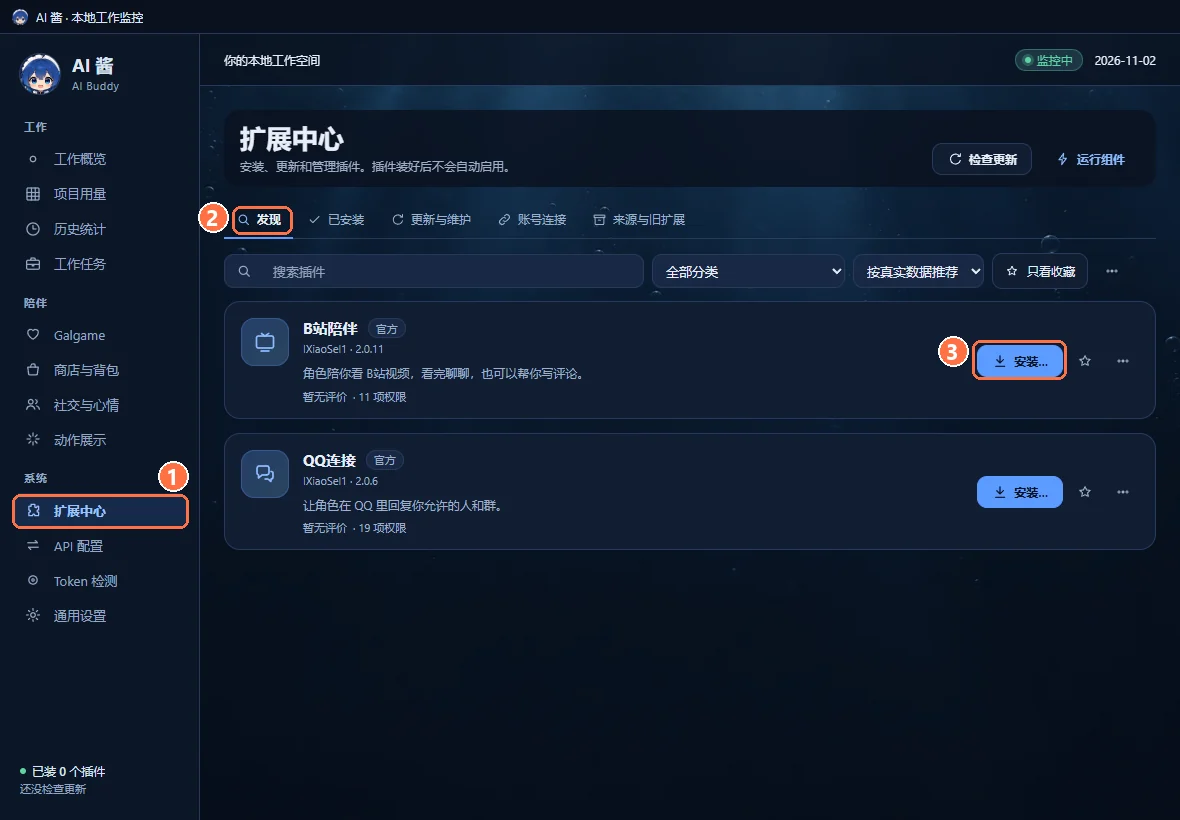
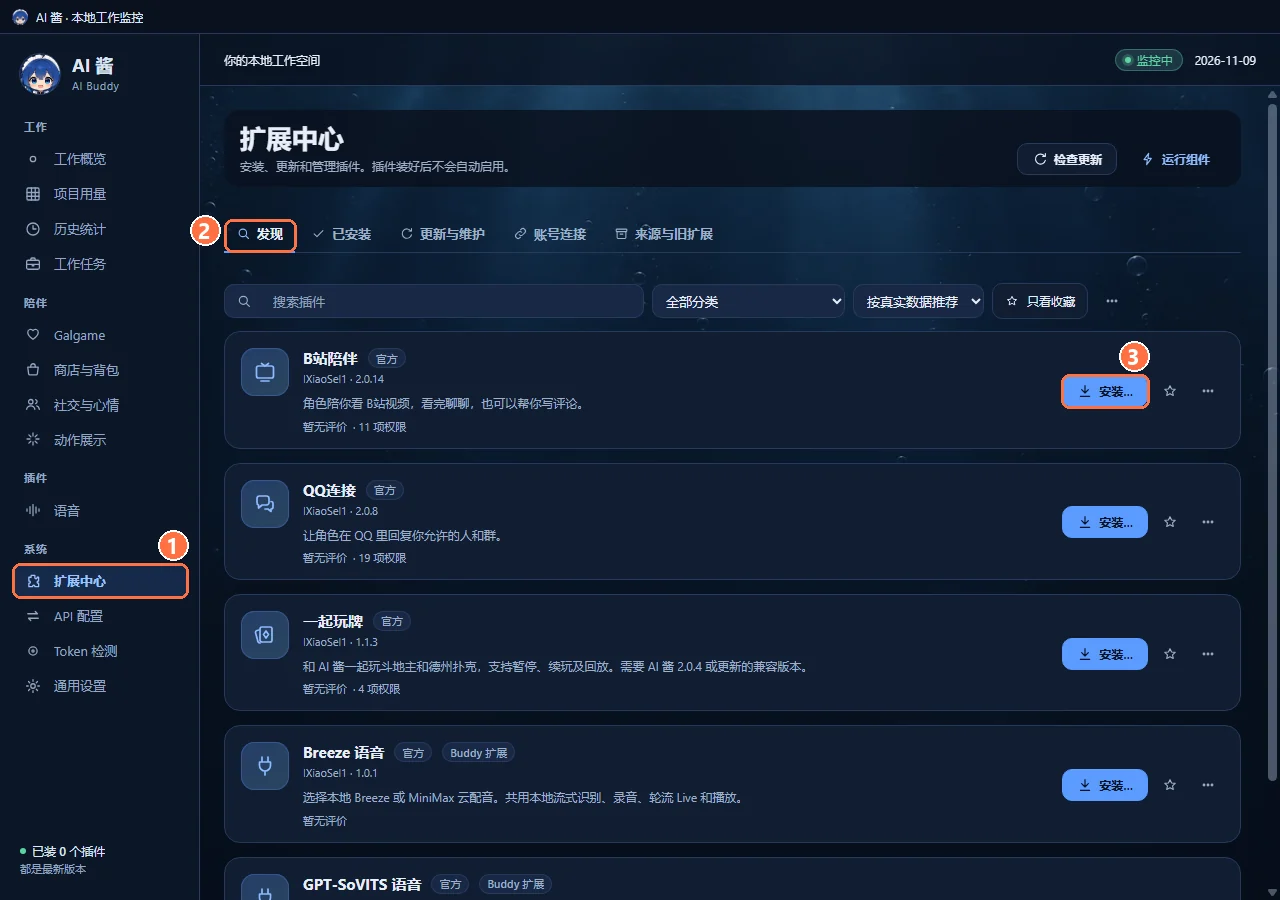
Update README for 2.0.9: voice, plugin versions and in-app updates
Add a Voice section (Breeze and GPT-SoVITS plugins, voice plugin page, voice in
chat, Live, Card Games voice, MiniMax cloud voice and costs), list the current
official plugin versions, describe in-app and plugin updates, hourly saving of
the two large saves, voice data and the 2.0.9 known limits. Point the quickstart
at the v2.0.9 downloads. New screenshots use the 2.0.9 interface with demo data.

diff --git a/README.en.md b/README.en.md
@@ -14,14 +14,14 @@
 
 [简体中文](README.md) · **English**
 
-**AI Buddy app** (this repository) · [Bilibili Companion plugin](https://github.com/lXiaoSel1/AI-Buddy-Bilibili) · [QQ Connect plugin](https://github.com/lXiaoSel1/AI-Buddy-QQ) · [Card Games plugin](https://github.com/lXiaoSel1/AI-Buddy-Card-Games)
+**AI Buddy app** (this repository) · [Bilibili Companion plugin](https://github.com/lXiaoSel1/AI-Buddy-Bilibili) · [QQ Connect plugin](https://github.com/lXiaoSel1/AI-Buddy-QQ) · [Card Games plugin](https://github.com/lXiaoSel1/AI-Buddy-Card-Games) · [Voice plugins](https://github.com/lXiaoSel1/AI-Buddy-Voice)
 
 <!-- ai-buddy-source-version: 2.0.9 -->
-**Current release: [v2.0.9](https://github.com/lXiaoSel1/ai-buddy/releases/tag/v2.0.9)** · 2.0 added the Extensions center with official plugins, points with a shop, backpack and feeding, and Social & mood; group chat can now run in Auto, with the characters taking turns on their own. 2.0.4 added the table service, so you can install Card Games from Extensions and play Dou Dizhu and Texas Hold'em with your characters. 2.0.5 fixes that page sticking on "Starting" when you switch from the Bilibili or QQ page. 2.0.6 fixes an installer freeze while verifying old profiles. 2.0.7 fixes Bilibili Companion storyboard acquisition on affected CDN routes. The 30fps and 60fps editions have the same features. 2.0.8 connects application and plugin updates in Settings. See the [2.0.9 release notes](docs/RELEASE-2.0.9.en.md).
+**Current release: [v2.0.9](https://github.com/lXiaoSel1/ai-buddy/releases/tag/v2.0.9)** · 2.0 added the Extensions center with official plugins, points with a shop, backpack and feeding, and Social & mood; group chat can now run in Auto, with the characters taking turns on their own. 2.0.4 added the table service, so you can install Card Games from Extensions and play Dou Dizhu and Texas Hold'em with your characters. 2.0.5 fixes that page sticking on "Starting" when you switch from the Bilibili or QQ page. 2.0.6 fixes an installer freeze while verifying old profiles. 2.0.7 fixes Bilibili Companion storyboard acquisition on affected CDN routes. 2.0.8 lets you update the app and plugins from Settings. 2.0.9 adds [voice](#voice): install the Breeze or GPT-SoVITS voice plugin from Extensions and her replies are read aloud; in Galgame you can take turns talking with her in Live or record speech into text; MiniMax cloud voice is also available. The 30fps and 60fps editions have the same features. See the [2.0.9 release notes](docs/RELEASE-2.0.9.en.md).
 
 ## Online installer (recommended)
 
-**Application version 2.0.9.** This version supports Card Games 1.0.0 from Extensions.
+**Application version 2.0.9.** Extensions currently offers Bilibili Companion 2.0.14, QQ Connect 2.0.8, Card Games 1.1.3, and the Breeze and GPT-SoVITS voice plugins 1.0.1.
 
 [Download the Windows x64 installer 2.0.9](https://github.com/lXiaoSel1/AI-Buddy/releases/download/v2.0.9/AI-Buddy-Setup-2.0.9-win-x64.exe) → choose 30fps / 60fps and characters → it downloads, verifies and installs. The same installer adds characters, repairs files and upgrades.
 
@@ -46,7 +46,8 @@ AI Buddy (AI 酱) is a Windows desktop app. It only reads your local AI-tool log
 - **Social & mood**: characters have a mood that changes with real interaction. Proactive chat, talking to herself and group Auto are all off by default; turn them on if you want them. When you are busy, you can ask her not to disturb you.
 - **More work, closer bonds**: while AI Buddy runs, new work tokens slowly turn into affection for the current character, and a level-up can produce a commemorative CG.
 - **A transparent desktop pet for each of the 11 characters**: 24 actions each, at 30fps or 60fps. Pat her and she makes a face, she falls asleep after 5 quiet minutes, left-drag walks her along and right-drag throws her. She jumps when a task finishes and reacts when one fails.
-- **Extensions and official plugins**: install [Bilibili Companion](https://github.com/lXiaoSel1/AI-Buddy-Bilibili) (watch Bilibili videos with a character) or [QQ Connect](https://github.com/lXiaoSel1/AI-Buddy-QQ) (let a character answer the QQ friends and groups you allow) or [Card Games](https://github.com/lXiaoSel1/AI-Buddy-Card-Games) (play Dou Dizhu and Texas Hold'em with your characters) from the Extensions center. Installed plugins are not enabled automatically, and they never sign in, post or call a model on their own.
+- **Extensions and official plugins**: install [Bilibili Companion](https://github.com/lXiaoSel1/AI-Buddy-Bilibili) (watch Bilibili videos with a character), [QQ Connect](https://github.com/lXiaoSel1/AI-Buddy-QQ) (let a character answer the QQ friends and groups you allow), [Card Games](https://github.com/lXiaoSel1/AI-Buddy-Card-Games) (play Dou Dizhu and Texas Hold'em with your characters) or the [voice plugins](https://github.com/lXiaoSel1/AI-Buddy-Voice) from the Extensions center. Installed plugins are not enabled automatically, and they never sign in, post or call a model on their own.
+- **Voice**: with the Breeze or GPT-SoVITS voice plugin, her replies are read aloud in her own voice, with the text following the playback. In Galgame you can take turns talking with her in Live, or record a few sentences into text and edit them before sending. Each character can use a recording you provide, and MiniMax cloud voice is there when you would rather not use your GPU.
 - **11 character themes, Chinese and English**: colors, backgrounds and ornaments come from each portrait, 5 dark and 6 light. Keep one fixed or let it follow the current character.
 
 ## Quick start
@@ -57,7 +58,7 @@ Five steps get you from the installer to your first chat. The orange numbers in 
 
 <img src="docs/images/en-step-1-installer.webp" width="420" alt="Installer: installation folder, animation edition and initial character, character resources and the Install / Add / Repair button">
 
-**2. Open the app directly.** The r1 installer initializes a fresh local profile automatically and preserves the existing profile during an in-place update. The welcome screen below applies only to a first portable launch. Use the app's import entry when bringing in a different save.
+**2. Open the app directly.** The installer initializes a fresh local profile automatically and preserves the existing profile during an in-place update. The welcome screen below applies only to a first portable launch. Use the app's import entry when bringing in a different save.
 
 <img src="docs/images/step-2-welcome-new-save.webp" width="620" alt="Welcome page (Chinese interface): Create a new save, Import an old save, and the Create a new save and start button">
 
@@ -69,9 +70,9 @@ Five steps get you from the installer to your first chat. The orange numbers in 
 
 ![The "online chat is off" notice in the Galgame dialogue box and the Enable online chat button (Chinese interface)](docs/images/step-4-turn-on-online-chat.webp)
 
-**5. (Optional) Install a plugin.** In the sidebar open ① **Extensions** → ② **Discover**, click ③ **Install…** next to Bilibili Companion, QQ Connect or Card Games, and tick the permissions you want to grant. AI Buddy prepares the components a plugin needs during installation or when you connect; you do not install Node or enter ports. To connect your Bilibili or QQ account afterwards, see each plugin's guide: [Bilibili Companion](https://github.com/lXiaoSel1/AI-Buddy-Bilibili#english) · [QQ Connect](https://github.com/lXiaoSel1/AI-Buddy-QQ#english).
+**5. (Optional) Install a plugin.** In the sidebar open ① **Extensions** → ② **Discover**, click ③ **Install…** next to the plugin you want, and tick the permissions you want to grant. AI Buddy prepares the components a plugin needs during installation, when you connect or when you start it; you do not install Node or enter ports. How to use each plugin afterwards: [Bilibili Companion](https://github.com/lXiaoSel1/AI-Buddy-Bilibili#english) · [QQ Connect](https://github.com/lXiaoSel1/AI-Buddy-QQ#english) · [Card Games](https://github.com/lXiaoSel1/AI-Buddy-Card-Games#english) · [Voice](#voice).
 
-<img src="docs/images/step-5-extension-center.webp" width="620" alt="Extensions center, Discover tab (Chinese interface): the official Bilibili Companion 2.0.11 and QQ Connect 2.0.6 plugins with their Install buttons">
+<img src="docs/images/step-5-extension-center.webp" width="620" alt="Extensions center, Discover tab (Chinese interface): official plugins including Bilibili Companion, QQ Connect, Card Games, Breeze Voice and GPT-SoVITS Voice, with their Install buttons (demo data)">
 
 ## What it does
 
@@ -291,6 +292,8 @@ Folder layout after installation:
 ### Update and remove
 
 - Add characters, repair files or switch frame rate: click **Manage character resources** in General settings to open the maintenance tool, or run the same-version installer again. Characters that are not installed show as "Not installed" and open the installer only after you confirm; nothing downloads automatically.
+- In-app updates (since 2.0.8): in General settings, **Version and updates** checks, downloads and prepares a new version; then choose Later or Install and restart. You can keep using the app while it prepares, and it waits for running activity to finish before switching. A very old version without migration support needs one installer run first.
+- Plugin updates: use **Extensions → Updates and maintenance**. Updates are manual by default; you can turn on automatic compatible patches per plugin. An update keeps the plugin's enabled state and data, and new permissions still need your OK. After upgrading from 2.0.8 to 2.0.9, update the voice plugins there from 1.0.0 to 1.0.1; 1.0.0 only works with 2.0.8.
 - Upgrade: run the newer installer. It waits for chat and CG to finish, closes AI Buddy normally, and keeps the previous program version and your personal data.
 - Roll back: click **Roll back** in the installer. It restores the program and launch pointer only and never overwrites newer progress with old saves. An older program that does not support newer data refuses to write it and does not convert or delete it.
 - Remove: click **Uninstall…** in the installer. Personal data is kept by default; you can also tick deleting the default personal data (irreversible). A custom data folder is never deleted. The download cache `%LOCALAPPDATA%\AI Buddy\InstallerCache` stays for resuming and repair; delete it manually if you no longer need it.
@@ -457,9 +460,11 @@ The Extensions center (sidebar **System → Extensions**) has Discover, Installe
 
 | Plugin | What it does | Guide and source |
 |---|---|---|
-| Bilibili Companion 2.0.11 | Watch Bilibili videos with a character: review the full reading plan first, and after you confirm she reads the sampled frames and the platform subtitles and writes viewing notes. Viewing can be scheduled. Posting comments needs separate permission | [AI-Buddy-Bilibili](https://github.com/lXiaoSel1/AI-Buddy-Bilibili) |
-| QQ Connect 2.0.6 | Choose a character to take over your QQ account and answer only the friends and groups you allow; in groups she speaks only when @-mentioned or replied to, by default | [AI-Buddy-QQ](https://github.com/lXiaoSel1/AI-Buddy-QQ) |
-| Card Games 1.0.0 | Play Dou Dizhu and Texas Hold'em (2 to 10 players) with your characters. They use their own bound models, points use the app wallet, and every 3 games add 1 affection. Requires the app at 2.0.4 or later | [AI-Buddy-Card-Games](https://github.com/lXiaoSel1/AI-Buddy-Card-Games) |
+| Bilibili Companion 2.0.14 | Watch Bilibili videos with a character: review the full reading plan first, and after you confirm she reads the sampled frames and the platform subtitles and writes viewing notes. Viewing can be scheduled. New viewings use that character's own chat connection. Posting comments needs separate permission | [AI-Buddy-Bilibili](https://github.com/lXiaoSel1/AI-Buddy-Bilibili) |
+| QQ Connect 2.0.8 | Choose a character to take over your QQ account and answer only the friends and groups you allow; in groups she speaks only when @-mentioned or replied to, by default | [AI-Buddy-QQ](https://github.com/lXiaoSel1/AI-Buddy-QQ) |
+| Card Games 1.1.3 | Play Dou Dizhu and Texas Hold'em (2 to 10 players) with your characters. They use their own bound models, points use the app wallet, and every 3 games add 1 affection. Includes music and table sounds, and with voice on they call out their moves. Requires the app at 2.0.4 or later | [AI-Buddy-Card-Games](https://github.com/lXiaoSel1/AI-Buddy-Card-Games) |
+| Breeze Voice 1.0.1 | Local voice whose tone follows her mood; needs an NVIDIA GPU with at least 9.5 GiB free memory at start. Can switch to MiniMax cloud voice. Requires the app at 2.0.9 | [AI-Buddy-Voice](https://github.com/lXiaoSel1/AI-Buddy-Voice) |
+| GPT-SoVITS Voice 1.0.1 | Local voice, mainly in a calm tone; needs an NVIDIA GPU with at least 4 GiB free memory at start. Can switch to MiniMax cloud voice. Requires the app at 2.0.9 | [AI-Buddy-Voice](https://github.com/lXiaoSel1/AI-Buddy-Voice) |
 
 - The video component Bilibili Companion needs (FFmpeg) is prepared by AI Buddy from a pinned upstream release when you install the plugin, with its source, size and progress shown; a copy that has already been verified is not downloaded again.
 - Use app 2.0.7 for Bilibili Companion's complete reading: earlier versions can fail to get the storyboard from the original video on some CDN routes. Failed viewing records stay. After updating, choose **Watch now** for a new attempt, then review the storyboard and confirm the plan. Media-address, connection and range errors appear under **Technical details**.
@@ -467,8 +472,73 @@ The Extensions center (sidebar **System → Extensions**) has Discover, Installe
 - Both plugins connect their accounts by scanning a QR code under **Extensions → Accounts**. Credentials are encrypted by the system on this computer, and a plugin only receives a reference, never the password or cookie itself.
 - Installing, updating or scanning never starts watching, commenting, sending QQ messages or calling a model.
 - Each AI move in Card Games is one model request, sent only when you click "Ask X to play" or turn on AI auto. Rules and settlement live in the app: a model can only propose a move, and an illegal one is never played.
+- Both voice plugins can be installed, but only one runs at a time. An installed voice plugin shows **Start** on the **Installed** tab and **Open** once it is running; turning voice on in Galgame also starts it.
 
 <img src="docs/images/card-games-table.webp" width="720" alt="A ten-seat Card Games Hold'em table: portraits along the top row, round portraits at both ends and the board, with an end-seat character appearing at the lower right on her turn (demo data)">
+
+<img src="docs/images/extension-installed.webp" width="620" alt="Extensions center, Installed tab (Chinese interface): Bilibili Companion, QQ Connect, Card Games and Breeze Voice running, GPT-SoVITS Voice not started with a Start button (demo data)">
+
+## Voice
+
+From 2.0.9, AI Buddy can talk. Voice comes from two plugins in Extensions; install either one:
+
+| | Breeze Voice | GPT-SoVITS Voice |
+|---|---|---|
+| Tone | Follows her mood | Mainly calm |
+| GPU | NVIDIA, at least 9.5 GiB free memory at start | NVIDIA, at least 4 GiB free memory at start |
+| First download (including the shared speech recognition, decimal GB) | about 11.18 GB | about 6.92 GB |
+
+Both plugins share one speech recognizer (CPU only). Both can be installed, but only one local voice engine runs at a time: switching stops the current engine before starting the other. The GPU memory figures are start-up checks, not a promise that every computer can load the model. To keep your GPU free, set "Where voices are made" on the plugin page to **MiniMax cloud**, billed by characters and using your own API key. Components are prepared when first needed: local mode prepares the chosen engine and the shared recognizer, cloud mode prepares only the shared parts and loads no local voice engine, and verified components are reused. Download sizes and component sources are in [AI-Buddy-Voice](https://github.com/lXiaoSel1/AI-Buddy-Voice).
+
+### The voice plugin page
+
+Once installed and enabled, open **Plugins → Voice** in the sidebar. The picture shows local voice with everything ready; missing parts show a setup page first, and MiniMax cloud mode shows cloud voice management:
+
+<img src="docs/images/en-voice-plugin-page.webp" width="720" alt="Voice plugin page: Breeze Voice ready, with character voices, where voices are made (this PC or MiniMax cloud) and parts on this PC (demo data)">
+
+- The tabs at the top switch between the Breeze and GPT-SoVITS pages. Looking does not switch the engine in use.
+- **Character voices**: every character has her own voice. To give her a voice you prepared, switch to her in Galgame first, choose **Use my recording…**, type exactly what is said, then pick a calm WAV recording with only one person speaking. The recording stays on this computer by default and is used only for that character; it is uploaded only if you explicitly agree to cloud cloning. GPT-SoVITS needs a 3–10 second reference (a requirement of the model itself; AI Buddy does not check the length on import).
+- **Where voices are made**: "This PC" uploads nothing and costs nothing but uses your GPU; "MiniMax cloud" needs no GPU and is billed by characters.
+- **Parts on this PC**: whether speech recognition and the voice model are ready. Missing parts show "Needs setup"; while preparing, the download progress is shown and continues if you leave the page.
+
+### In chat
+
+<img src="docs/images/en-voice-chat-speaking.webp" width="720" alt="Galgame private chat: DeepSeek is speaking, the part already read is dimmed, and the voice status at the top right says Speaking (demo data)">
+
+- **Voice** at the right of the top bar shows the state (ready, speaking, Live on). Click it to turn voice on or off and choose the plugin and where voices are made.
+- The microphone left of the input box is **voice input**: when you finish, the recognized text goes into the input box marked as from a recording, so you can edit it first. Nothing is sent automatically.
+- **Live** right of the input box lets you take turns talking with her (below).
+- While the model is still generating, this button is **Stop reply**; once generation ends and she is still reading, it becomes **Stop reading**.
+
+A voiced reply appears in step with the actual playback, and the part already read is dimmed; if voicing fails or times out, the text is shown anyway. Group chat uses the same voice entry, and group Auto waits until the current line's text and audio have finished before the next speaker. Switching between private and group chat stops the line being read but leaves voice switched on.
+
+### Live: take turns talking
+
+After **Live**, you say a line and she answers. The strip shows four stages: you, recognizing, thinking, speaking.
+
+<img src="docs/images/voice-live.webp" width="720" alt="Live in progress (Chinese interface): DeepSeek is speaking, the stage strip is on 'she speaks', with End Live at the right (demo data)">
+
+- ① The current stage. When she finishes, it is your turn again.
+- ② **End Live** ends Live only; it does not send another message.
+
+Live needs a working microphone that Windows allows AI Buddy to use. After you click Live, the needed parts are prepared before the microphone opens, and you can type meanwhile; while the voice model is still loading, the Live button is disabled. If voicing fails or a reply cannot start, Live may end and you need to start it again; replies already saved are kept. Switching chats or pages never reopens the microphone for you.
+
+### Voice in Card Games
+
+With AI Buddy 2.0.9, the Card Games sound menu gains a **Voice** volume. With voice on, an engine prepared and character voices set, the characters call out things like "All in" and "three of a kind" in synthesized speech. Table text waits up to 15 seconds for the audio to start. See [Card Games](https://github.com/lXiaoSel1/AI-Buddy-Card-Games#english).
+
+### MiniMax cloud voice
+
+Set "Where voices are made" to **MiniMax cloud** on the plugin page and add a cloud voice configuration (name, model, API key). The key is encrypted on this computer and never shown again; saving a configuration uploads no voices.
+
+- **Change a character's cloud voice**: search the system, cloned and designed voices already in that MiniMax account; only the current character changes.
+- **Prepare cloud voices in bulk**: clone several characters' recordings at once. Before anything starts, a confirmation lists which characters will be uploaded, how many new clones there are and the estimated cost.
+
+<img src="docs/images/voice-cloud-cost.webp" width="420" alt="Confirmation (Chinese interface): upload 3 characters' voices to MiniMax, 3 new clones, clone fee about ¥29.70, activation text synthesis billed separately by characters (demo data)">
+
+No character is selected for paid cloning at first; only the ones you explicitly select and confirm are uploaded. Under MiniMax's official mainland pricing, the standard pay-as-you-go reference price is ¥9.90 per cloned voice, charged the first time it is used; text synthesis is billed separately under MiniMax's character rules, and your account's actual charges are what count. Cancelling only stops later steps; clones or synthesis already submitted may still finish and be charged.
+
+All voice screenshots above are interface demos: the voice state comes from test data, no voice model was loaded and MiniMax was not contacted.
 
 ## Data and privacy
 
@@ -480,6 +550,7 @@ All runtime data lives under `local/data-v003` in the app folder. Treat it as pr
 - `usage-ledger-v2/`: request history (local SQLite), read page by page on demand.
 - `galgame/companion.json`: character cards, personas, conversations, group chats (members, logs, group CGs and backgrounds), long-term memory and personality growth.
 - `galgame/storages/dsh-whale-galgame/global.json`: the Galgame save, including each character's affection, level, CG gallery and background.
+- `voice/`: `settings.json` (voice settings and cloud voice configurations), `profiles/` (your imported reference recordings), `components/` (local voice components, which can take more than ten GB), `cloud/` (cloud voice bindings and preparation records) and `credentials.json` (MiniMax keys encrypted by the system).
 - `galgame/media/`: images stored by content hash, including the avatars, portraits and backgrounds you uploaded.
 - `galgame/drafts.json`: messages you have not sent yet.
 - `galgame/life-archives/`: life archive ZIPs.
@@ -488,6 +559,8 @@ All runtime data lives under `local/data-v003` in the app folder. Treat it as pr
 - `chromium/`, `crash-reports/`: interface cache and crash reports.
 
 Points, food, plugin data and account connections are also kept on this computer. The online installer's download cache is `%LOCALAPPDATA%\AI Buddy\InstallerCache`; it holds only install packages, no personal data.
+
+**When data is written**: from 2.0.9 the two large saves, `companion.json` and `global.json`, are written hourly when they have changed, and also on normal exit and before save inspection, export and import. Settings, drafts, request records, the wallet and the usage databases are still saved immediately. A power cut or a forced kill can lose changes to these two saves made since their last write, so quit AI Buddy with **Exit** in the tray menu.
 
 What leaves your machine:
 
@@ -499,11 +572,12 @@ What leaves your machine:
 - CG prompts go to the image connection you chose. Automatic generation is off by default; with online chat on, designing a CG theme uses one extra chat request carrying the last few lines of conversation and the character profile.
 - A group CG sends the group conversation shown so far, with speaker names, to the prompt planning model and puts it into the image prompt; an uploaded group background is sent to the image connection as a reference image (unless that connection has references turned off).
 - Plugins reach Bilibili or QQ only after you grant permission and enable them; see each plugin's guide for what they send.
+- Local voice and speech recognition run on this computer, and voice input audio is not sent to a voice cloud service; text you send from it goes through the character's chat connection like any message. With MiniMax cloud voice, the text to be read is sent to MiniMax. Reference recordings are uploaded only when you explicitly agree to cloud cloning (for one character or in bulk), with verification text when the API requires it, which may cost money. Voice components are downloaded from a pinned inventory and checked against their sizes and SHA-256.
 - Online quotas only query services you enabled.
 - The price catalog downloads public prices from models.dev only when you update manually or enable daily updates. No logs are sent.
 - External requests from the interface renderer are always blocked.
 
-Release packages contain no developer profile, keys, chats, personal CGs, logs or browser data. The 2.0.3 screenshots in this README come from an independent demo profile: usage figures and project names are synthetic, chat replies come from a local test service, and the installer's folder shows an example path. Pictures marked "1.9.2 screenshot" are kept from the earlier README; their CGs were generated on the spot with the developer's local Codex. None of them reflect real account usage or conversations. Check project paths and account details before sharing logs, exports or screenshots. If you keep AI Buddy inside a Git repository, add `local/` to that repository's `.gitignore`.
+Release packages contain no developer profile, keys, chats, personal CGs, logs, private recordings or browser data. The 2.0.9 voice and Extensions screenshots in this README were taken with the 2.0.9 interface code and demo data: the voice state comes from test data, and no voice model was loaded and MiniMax was not contacted. The 2.0.3 screenshots come from an independent demo profile: usage figures and project names are synthetic, chat replies come from a local test service, and the installer's folder shows an example path. Pictures marked "1.9.2 screenshot" are kept from the earlier README; their CGs were generated on the spot with the developer's local Codex. None of them reflect real account usage or conversations. Check project paths and account details before sharing logs, exports or screenshots. If you keep AI Buddy inside a Git repository, add `local/` to that repository's `.gitignore`.
 
 ## Known limitations
 
@@ -513,6 +587,8 @@ Release packages contain no developer profile, keys, chats, personal CGs, logs o
 - The **Work tasks** page and the "Work and collaboration" plugin in the Extensions center are still being polished; this release does not publish their source or packages. Existing local task records are kept on upgrade.
 - Card Games has been run in a real window with a synthetic model, including official installation and full games. Real-model playing strength, lines and waiting times have not had a full review.
 - The 2.0.7 Bilibili route fix was checked in a real window with the official plugin, a local CDN stub and real FFmpeg. It has not yet been retested on the network where the problem was reported.
+- Local voice needs an NVIDIA GPU (CUDA). After release, discovering the plugins from the catalog, installing the shared parts and the Breeze plugin, and fully preparing the shared speech recognition were checked in a fresh isolated profile. A full trial on a fresh physical computer, real loading and synthesis with both voice models, MiniMax billing, microphones and long listening sessions have not been accepted yet. The 15-second wait for audio at the card table still needs calibrating on real computers.
+- A report that the pet disappears after being clicked while a Bilibili video is full screen, needing an AI Buddy restart, has not been reproduced yet. Dragging, landing and docking the pet across stacked displays or displays with different scaling still need real multi-monitor checks.
 - The app is not commercially code-signed.
 
 ## Development

diff --git a/docs/QUICKSTART.en.md b/docs/QUICKSTART.en.md
@@ -2,13 +2,13 @@
 
 [简体中文](QUICKSTART.md) · **English** · [Back to the README](../README.en.md)
 
-This guide follows a first-time setup, from downloading the installer to adding a plugin. The orange numbers in the pictures match ①②③ in the text. The pictures come from an independent AI Buddy 2.0.3 demo profile: usage, project names and chat replies are demo data, and no real account was signed in. The installer picture is in English; the app pictures show the Chinese interface, and the buttons sit in the same places in English (switch the language under **Settings** in the sidebar).
+This guide follows a first-time setup, from downloading the installer to adding a plugin. The orange numbers in the pictures match ①②③ in the text. Most pictures come from an independent AI Buddy 2.0.3 demo profile; the Extensions and voice pictures were taken with the 2.0.9 interface and demo data. Usage, project names, chat replies and voice states are demo data, and no real account was signed in. The installer picture is in English; the app pictures show the Chinese interface, and the buttons sit in the same places in English (switch the language under **Settings** in the sidebar).
 
 You need a Windows 10/11 x64 PC. To chat, you also need an API key for a model service, or Codex signed in on this computer. AI Buddy itself is free; model providers may charge you.
 
 ## 1. Download and run the installer
 
-1. Open the [v2.0.7 release page](https://github.com/lXiaoSel1/ai-buddy/releases/tag/v2.0.7) and download `AI-Buddy-Setup-2.0.7-win-x64.exe` (about 50 MiB). If Windows reports an unknown publisher, you can check the file against `SHA256SUMS-2.0.7.txt` on the same page before choosing to run it anyway.
+1. Open the [v2.0.9 release page](https://github.com/lXiaoSel1/ai-buddy/releases/tag/v2.0.9) and download `AI-Buddy-Setup-2.0.9-win-x64.exe` (about 50 MiB). If Windows reports an unknown publisher, you can check the file against `SHA256SUMS-2.0.9.txt` on the same page before choosing to run it anyway.
 2. In the installer:
    - ① **Installation folder**: `%LOCALAPPDATA%\Programs\AI Buddy` by default; click **Browse…** to change it. When upgrading, choose the existing folder.
    - ② **Animation edition and initial character**: 30fps and 60fps have exactly the same features; 60fps is smoother and a bigger download. The initial character keeps you company on the first launch.
@@ -19,7 +19,7 @@ You need a Windows 10/11 x64 PC. To chat, you also need an API key for a model s
 
 The installer downloads the resources from GitHub, checks each SHA-256 and then installs them. If a download is interrupted, run the installer again with the same folder and it resumes. After installing, it starts AI Buddy once to check it, and leaves it running by default.
 
-Offline PC: put `install-manifest-2.0.7.json` and the resource ZIPs for your characters and edition from the release page into one folder, then choose it as the installer's "Offline resource folder". If files are missing, the installer lists them.
+Offline PC: put `install-manifest-2.0.9.json` and the resource ZIPs for your characters and edition from the release page into one folder, then choose it as the installer's "Offline resource folder". If files are missing, the installer lists them.
 
 ## 2. First launch: create or import a save
 
@@ -41,7 +41,7 @@ Offline PC: put `install-manifest-2.0.7.json` and the resource ZIPs for your cha
 
 The import copies the data and checks every file; the old save stays as it was. It refuses while the old version is still running, and it does not call any chat or image model.
 
-The r1 installer opens the original save after an in-place upgrade. Missing or unrecognized data stops the update instead of creating a replacement profile. Older installers cannot discover this same-version revision automatically; download r1 once from the README.
+A current installer opens the original save after an in-place upgrade. Missing or unrecognized data stops the update instead of creating a replacement profile. From 2.0.8 you can also update directly under **Version and updates** in General settings.
 
 ## 3. Set up a chat model
 
@@ -81,15 +81,16 @@ The toolbar also has Background, Portrait, Manage characters, My personas, Dialo
 
 1. In the sidebar open ① **Extensions** and find the plugin on the ② **Discover** tab.
 2. Click ③ **Install…**. The install page lists every permission the plugin asks for and grants only the ones you tick. Installed plugins are not enabled automatically: click **Enable and connect** or **Enable and sign in** on the install page, or turn on the switch on the **Installed** tab.
-3. AI Buddy prepares what a plugin needs: Bilibili Companion's video component (FFmpeg) is downloaded during installation, and QQ Connect's connection component is prepared the first time you connect by QR code. You do not install Node or enter ports or tokens.
+3. AI Buddy prepares what a plugin needs: Bilibili Companion's video component (FFmpeg) is downloaded during installation, QQ Connect's connection component is prepared the first time you connect by QR code, and a voice plugin's voice model is prepared the first time you start it (about 11 GB for Breeze, about 7 GB for GPT-SoVITS). You do not install Node or enter ports or tokens.
 
-<img src="images/step-5-extension-center.webp" width="640" alt="Extensions center (Chinese interface): ① Extensions ② Discover ③ Install…">
+<img src="images/step-5-extension-center.webp" width="640" alt="Extensions center (Chinese interface): ① Extensions ② Discover ③ Install… (demo data)">
 
 To connect your account, choose a character and set the scope afterwards, see:
 
 - [Bilibili Companion guide](https://github.com/lXiaoSel1/AI-Buddy-Bilibili#english)
 - [QQ Connect guide](https://github.com/lXiaoSel1/AI-Buddy-QQ#english)
 - [Card Games guide](https://github.com/lXiaoSel1/AI-Buddy-Card-Games#english)
+- [Voice: the plugin page, voice in chat, Live and cloud voice](../README.en.md#voice), and the [voice plugin guide](https://github.com/lXiaoSel1/AI-Buddy-Voice#english)
 
 ## FAQ
 

diff --git a/docs/QUICKSTART.md b/docs/QUICKSTART.md
@@ -2,13 +2,13 @@
 
 **简体中文** · [English](QUICKSTART.en.md) · [返回 README](../README.md)
 
-这份教程按第一次使用的顺序，从下载安装器讲到装好插件。图里的橙色编号对应文字里的 ①②③。截图都来自 AI 酱 2.0.3 的独立演示存档：用量、项目名和聊天回复都是演示数据，没有登录真实账号。
+这份教程按第一次使用的顺序，从下载安装器讲到装好插件。图里的橙色编号对应文字里的 ①②③。截图大多来自 AI 酱 2.0.3 的独立演示存档，扩展中心和语音的截图是用 2.0.9 的界面和演示数据拍的：用量、项目名、聊天回复和语音状态都是演示数据，没有登录真实账号。
 
 需要：一台 Windows 10/11 x64 电脑；想聊天的话，还要有一个模型服务的 API Key，或者本机已登录的 Codex。AI 酱本身免费，模型服务商可能另外收费。
 
 ## 1. 下载并运行安装器
 
-1. 打开 [v2.0.7 下载页](https://github.com/lXiaoSel1/ai-buddy/releases/tag/v2.0.7)，下载 `AI-Buddy-Setup-2.0.7-win-x64.exe`（约 50 MiB）。Windows 提示“未知发布者”时，可以先用同一页的 `SHA256SUMS-2.0.7.txt` 核对文件，再选择仍要运行。
+1. 打开 [v2.0.9 下载页](https://github.com/lXiaoSel1/ai-buddy/releases/tag/v2.0.9)，下载 `AI-Buddy-Setup-2.0.9-win-x64.exe`（约 50 MiB）。Windows 提示“未知发布者”时，可以先用同一页的 `SHA256SUMS-2.0.9.txt` 核对文件，再选择仍要运行。
 2. 在安装器里：
    - ① **安装位置**：默认 `%LOCALAPPDATA%\Programs\AI Buddy`，可以点「浏览…」改。升级时选原来的位置。
    - ② **动画版本与初始角色**：30fps 和 60fps 功能完全相同，60fps 更顺滑、下载更大。初始角色是第一次打开时陪你的那位。
@@ -19,11 +19,11 @@
 
 安装器会从 GitHub 下载资源，逐个核对 SHA-256 后再安装；下载中断了就重新运行安装器、选同一个位置，会接着下。装完后安装器会启动 AI 酱检查一次，默认让它继续开着。
 
-没法联网的电脑：在下载页把 `install-manifest-2.0.7.json` 和所选角色、帧率需要的资源 ZIP 放进同一个文件夹，在安装器的「离线资源目录」里选它。缺文件时安装器会列出缺了哪些。
+没法联网的电脑：在下载页把 `install-manifest-2.0.9.json` 和所选角色、帧率需要的资源 ZIP 放进同一个文件夹，在安装器的「离线资源目录」里选它。缺文件时安装器会列出缺了哪些。
 
 ## 2. 第一次启动：新建或导入存档
 
-**使用 2.0.3-r1 或更新的安装器：**首次安装自动初始化存档，原目录更新直接打开原存档，不再弹出新建／导入页。以下欢迎页步骤仅适用于无存档的便携包首次启动；需要迁入另一份资料时，再打开应用的导入存档入口。
+**用 2.0.3-r1 或更新的安装器安装时：**首次安装自动初始化存档，原目录更新直接打开原存档，不再弹出新建／导入页。以下欢迎页步骤仅适用于无存档的便携包首次启动；需要迁入另一份资料时，再打开应用的导入存档入口。
 
 **新用户**：选 ① **创建新存档**，点 ② **创建新存档并开始**。在你确认之前，AI 酱不会创建存档。
 
@@ -41,7 +41,7 @@
 
 导入是复制一份，并逐个核对文件；旧存档保持原样。旧版还开着时导入会被拒绝。导入不会调用聊天或绘图模型。
 
-用r1安装器在原位置升级应直接进入原存档；若资料缺失或异常，安装器会明确停止，不会创建新档替代它。旧安装器不会自动发现同版本的r1修订，请从README的新下载入口获取一次。
+用新安装器在原位置升级时，会直接打开原来的存档；资料缺失或异常时，安装器会停下来提示，不会新建一份存档顶替。2.0.8 起也可以在通用设置的「版本与更新」里直接更新。
 
 ## 3. 配置聊天模型
 
@@ -81,15 +81,16 @@
 
 1. 左侧栏打开 ① **扩展中心**，在 ② **发现** 页签里找到插件。
 2. 点 ③ **安装…**，安装页会列出插件要的每一项权限，只授予你勾选的那些。装好后不会自动启用：点安装页的「启用并连接 B站账号」或「启用并扫码登录」，或在 **已安装** 页打开开关。
-3. 插件需要的组件由 AI 酱准备：B站陪伴的视频组件（FFmpeg）在安装时下载；QQ连接的连接组件在你第一次扫码连接时准备。不用另装 Node，也不用填端口或 Token。
+3. 插件需要的组件由 AI 酱准备：B站陪伴的视频组件（FFmpeg）在安装时下载；QQ连接的连接组件在你第一次扫码连接时准备；语音插件的声音模型在第一次启动时准备（Breeze 约 11 GB，GPT-SoVITS 约 7 GB）。不用另装 Node，也不用填端口或 Token。
 
-<img src="images/step-5-extension-center.webp" width="640" alt="扩展中心：① 扩展中心 ② 发现 ③ 安装…">
+<img src="images/step-5-extension-center.webp" width="640" alt="扩展中心：① 扩展中心 ② 发现 ③ 安装…（演示数据）">
 
 装好以后，连接账号、选角色和设置范围的步骤见：
 
 - [B站陪伴：快速上手](https://github.com/lXiaoSel1/AI-Buddy-Bilibili#快速上手)
 - [QQ连接：快速上手](https://github.com/lXiaoSel1/AI-Buddy-QQ#快速上手)
 - [一起玩牌：快速上手](https://github.com/lXiaoSel1/AI-Buddy-Card-Games#快速上手)
+- [语音：插件页、聊天里的语音、Live 和云配音](../README.md#语音)，以及 [语音插件的快速上手](https://github.com/lXiaoSel1/AI-Buddy-Voice#快速上手)
 
 ## 常见问题
 
